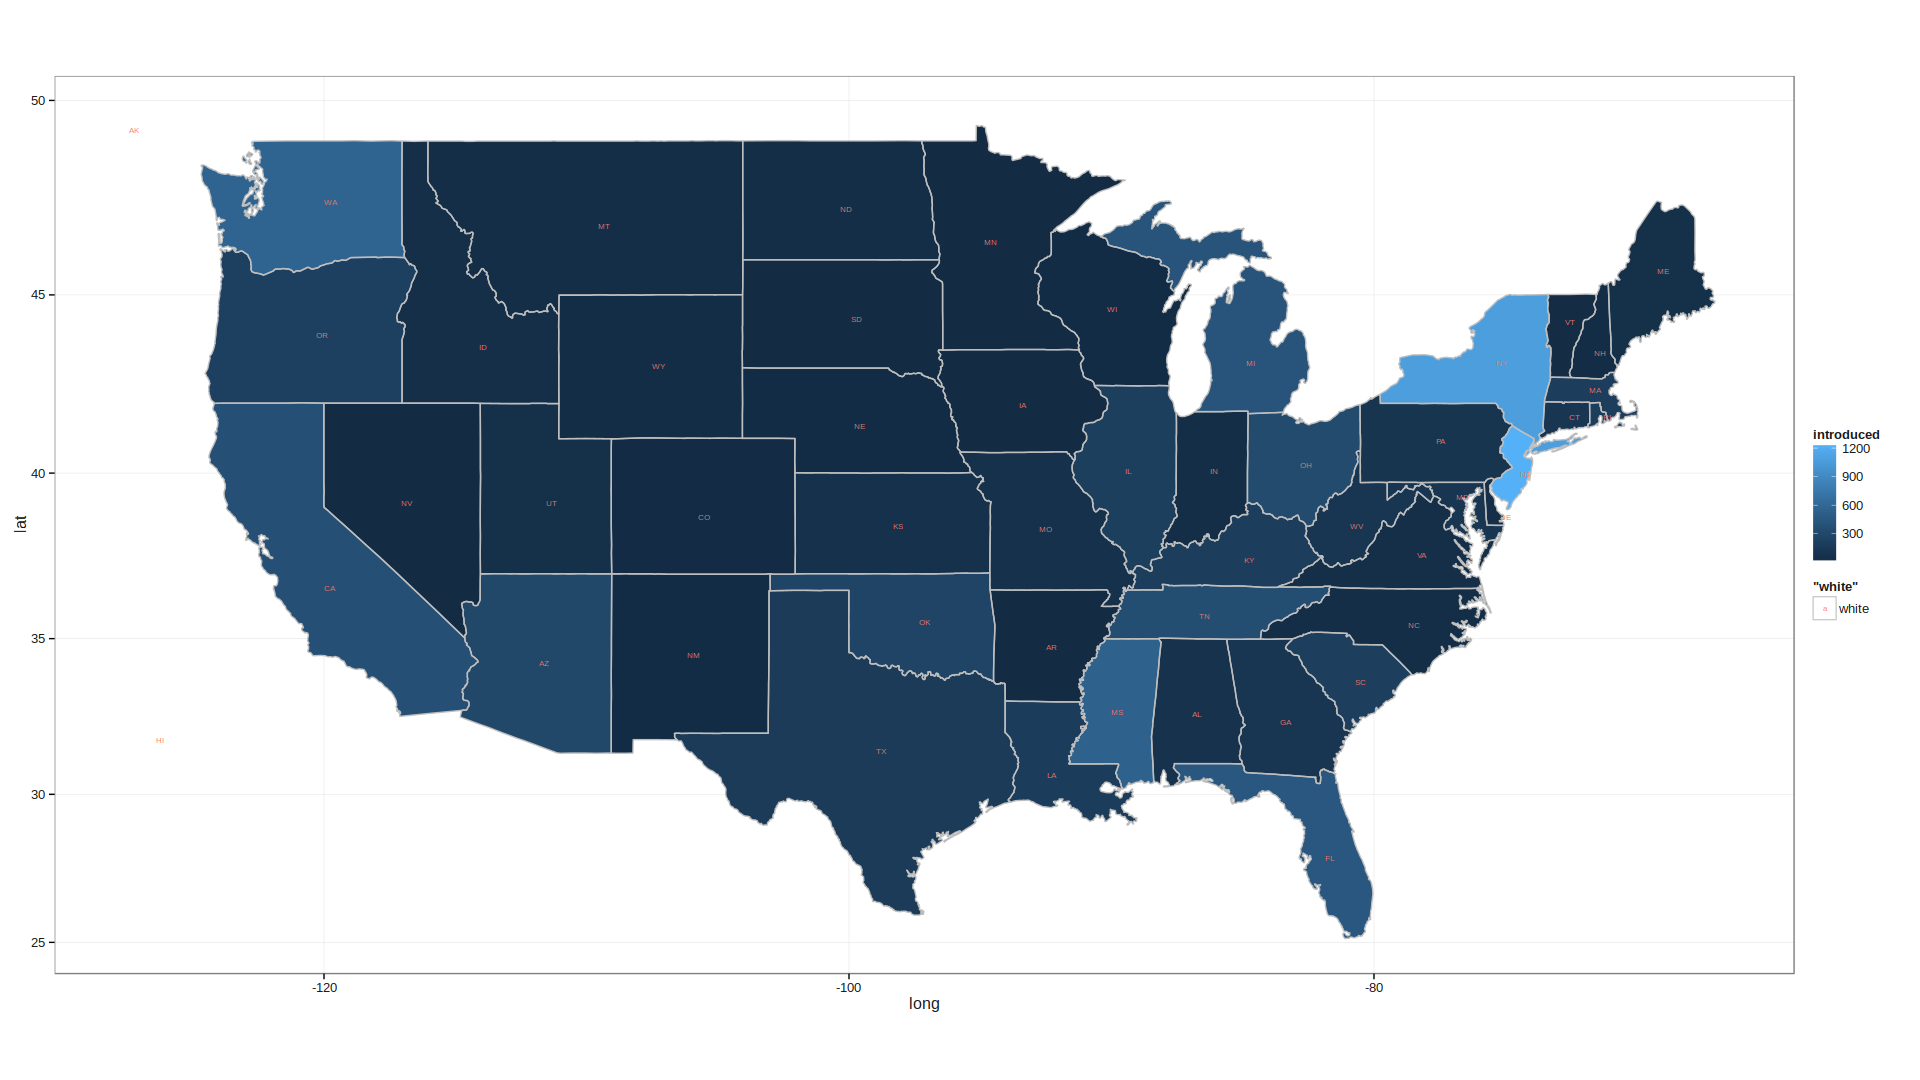
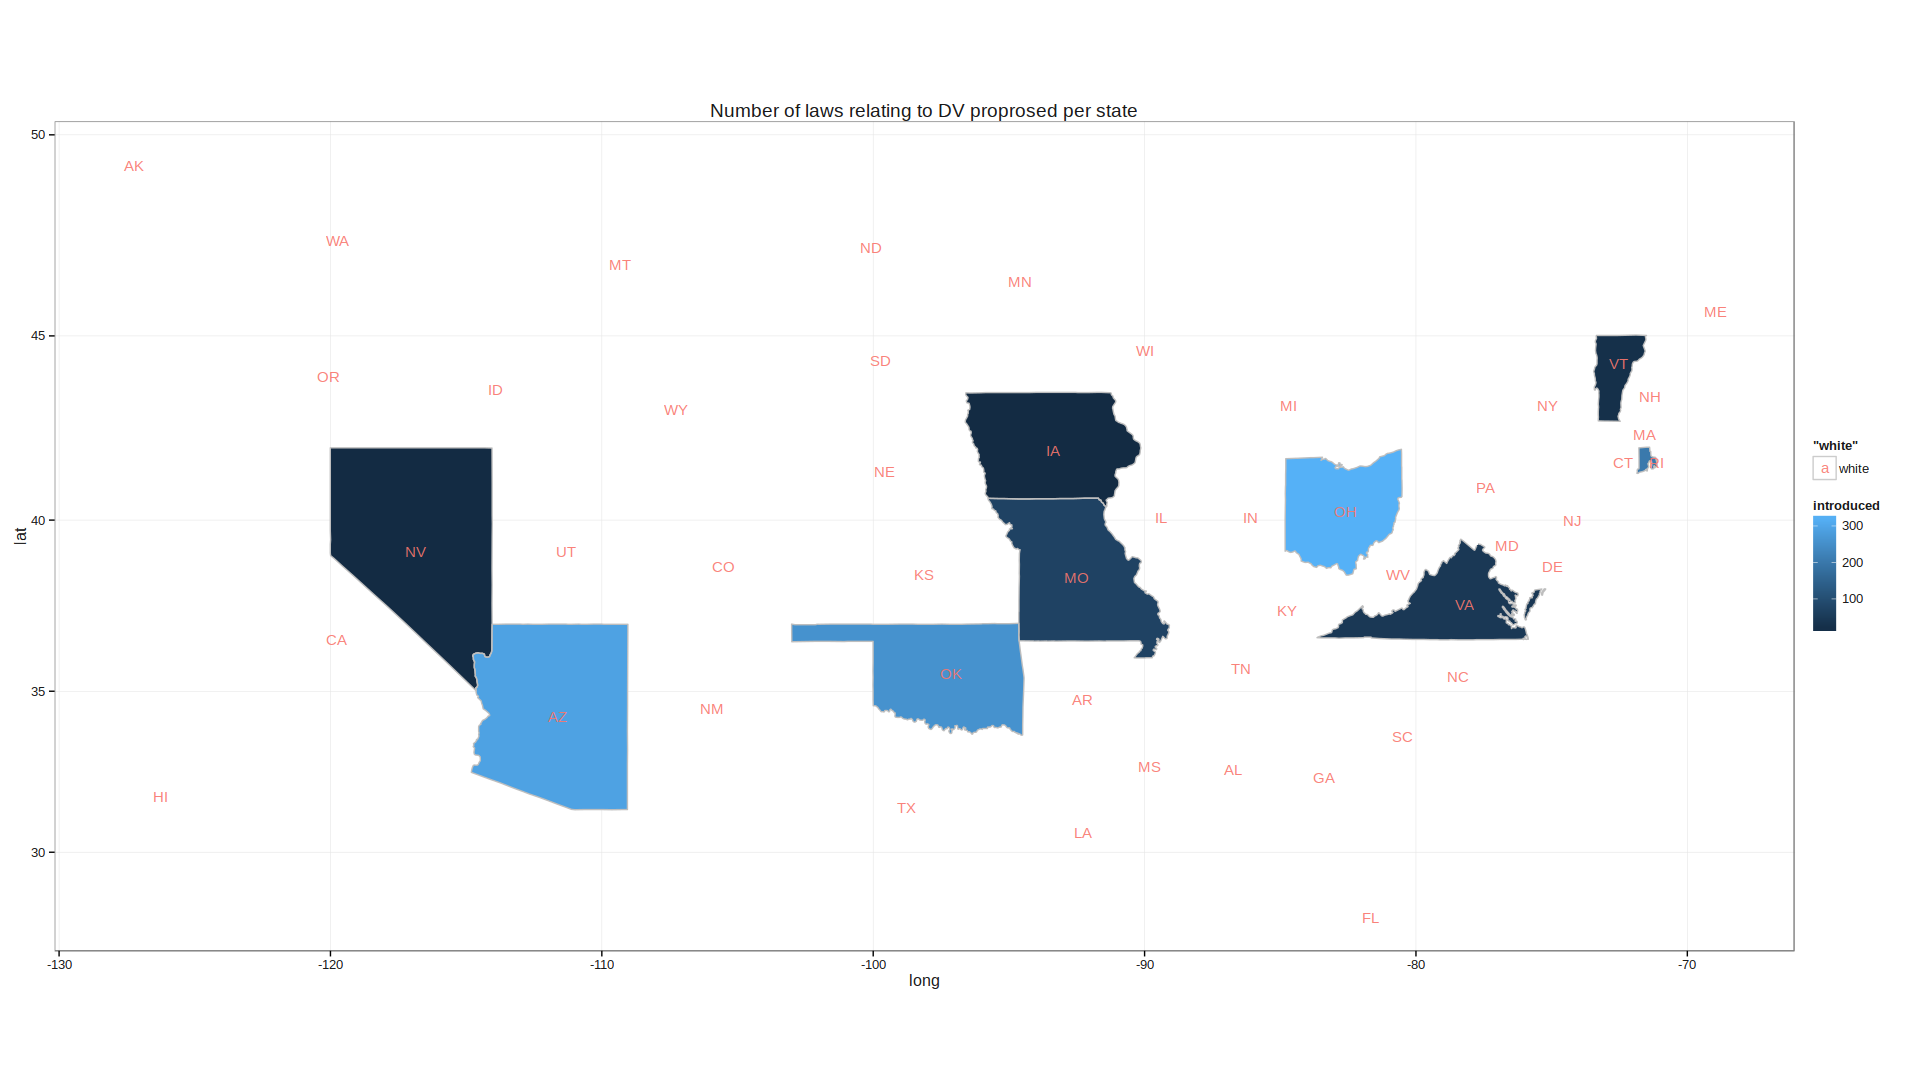
Added intimate partner violence stats

diff --git a/README.md b/README.md
@@ -9,6 +9,9 @@ Load data
 
 ### Data Sources
 
+1.  State legislature counts [FiscalNote](https://www.fiscalnote.com/)
+2.  .... (<http://www.americanbar.org/groups/domestic_violence/resources/statutory_summary_charts.html>)
+
 ``` {.r}
 library(dplyr)
 library(ggplot2)
@@ -19,23 +22,35 @@ library(maps)
 # load state data
 dat = map_data('state')
 
+# state abbreviations
+states = data.frame(state.name, state.center, state.abb)
+states$state.name = tolower(states$state.name)
+dat = merge(dat, states, by.x='region', by.y='state.name')
+
 # load state dv legislature data
 state_dv_legislature = tbl_df(read.csv('input/state_dv_legislature.csv')) %>%
     filter(region != 'us congress')
 
-# state abbreviations
-states = data.frame(state.center, state.abb)
+# intimate partnet domestic violence
+int_partner_violence = read.csv('input/intimate_partner_dv.csv')
+dat = tbl_df(merge(dat, int_partner_violence, by.x='state.abb', 'region'))
+
+dat = dat %>% mutate(intimate_partner_12mo_dv_ratio=(intimate_partner_12mo_dv /
+                     intimate_partner_12mo_dv_total))
 
 # combine data
 dat = merge(dat, state_dv_legislature, by='region')
 dat = arrange(dat, order)
 
-plt = ggplot(data=dat, aes(x = long, y = lat, group = group))
-plt = plt + geom_polygon(aes(fill=introduced))
-plt = plt + geom_path(colour = 'gray', linestyle = 2)
-plt = plt + coord_map()
-plt = plt + geom_text(data=states, aes(x=x, y=y, label=state.abb, group = NULL, color='white'), size = 2)
-plt = plt + theme_bw()
+plt = ggplot(data=dat, aes(x = long, y = lat, group = group)) +
+        geom_polygon(aes(fill=introduced)) +
+        geom_path(colour = 'gray', linestyle = 2) +
+        coord_map() +
+        geom_text(data=states, 
+                  aes(x=x, y=y, label=state.abb, group=NULL, color='white'), size=4) +
+        theme_bw() +
+        ggtitle("Number of laws relating to DV proprosed per state")
+
 plt
 ```
 
